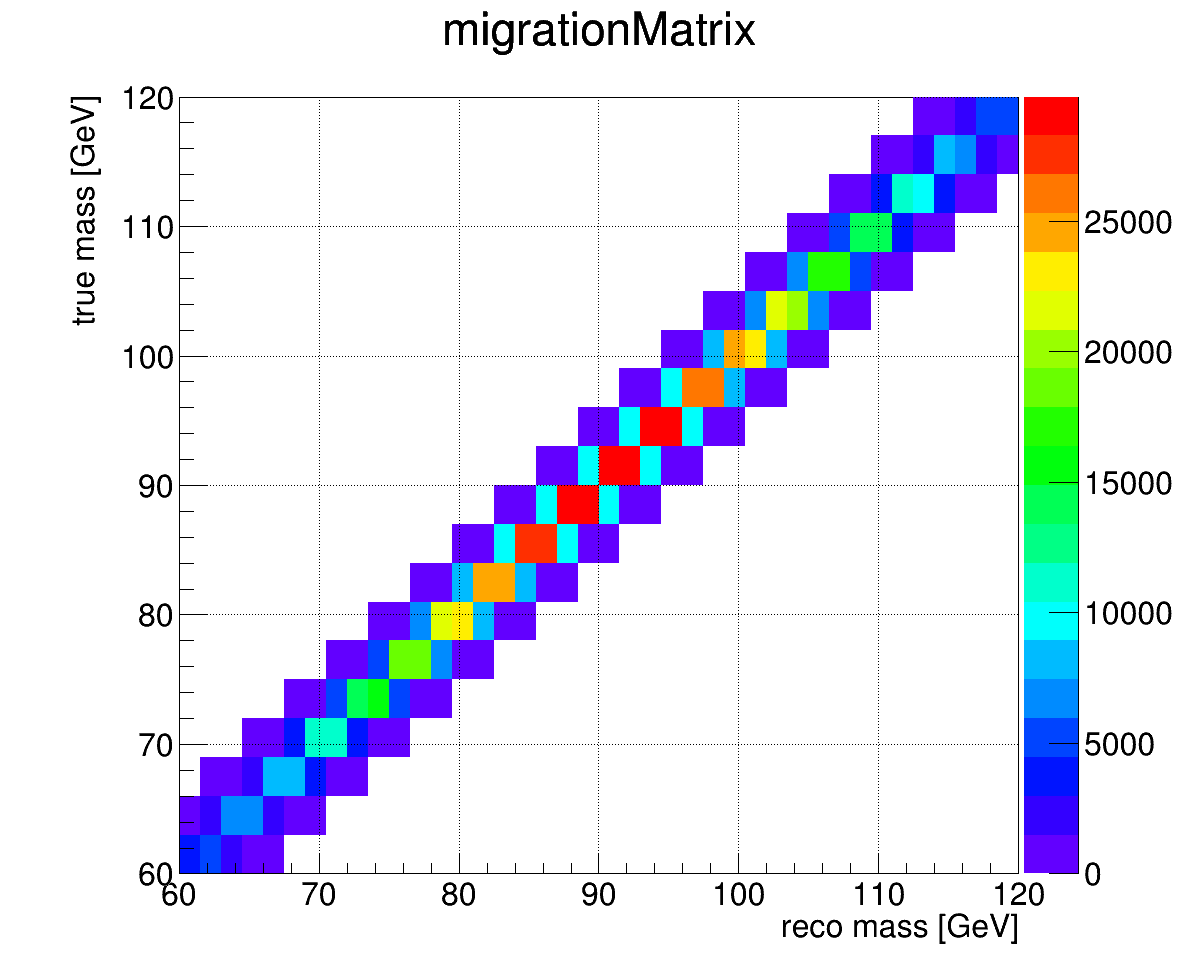
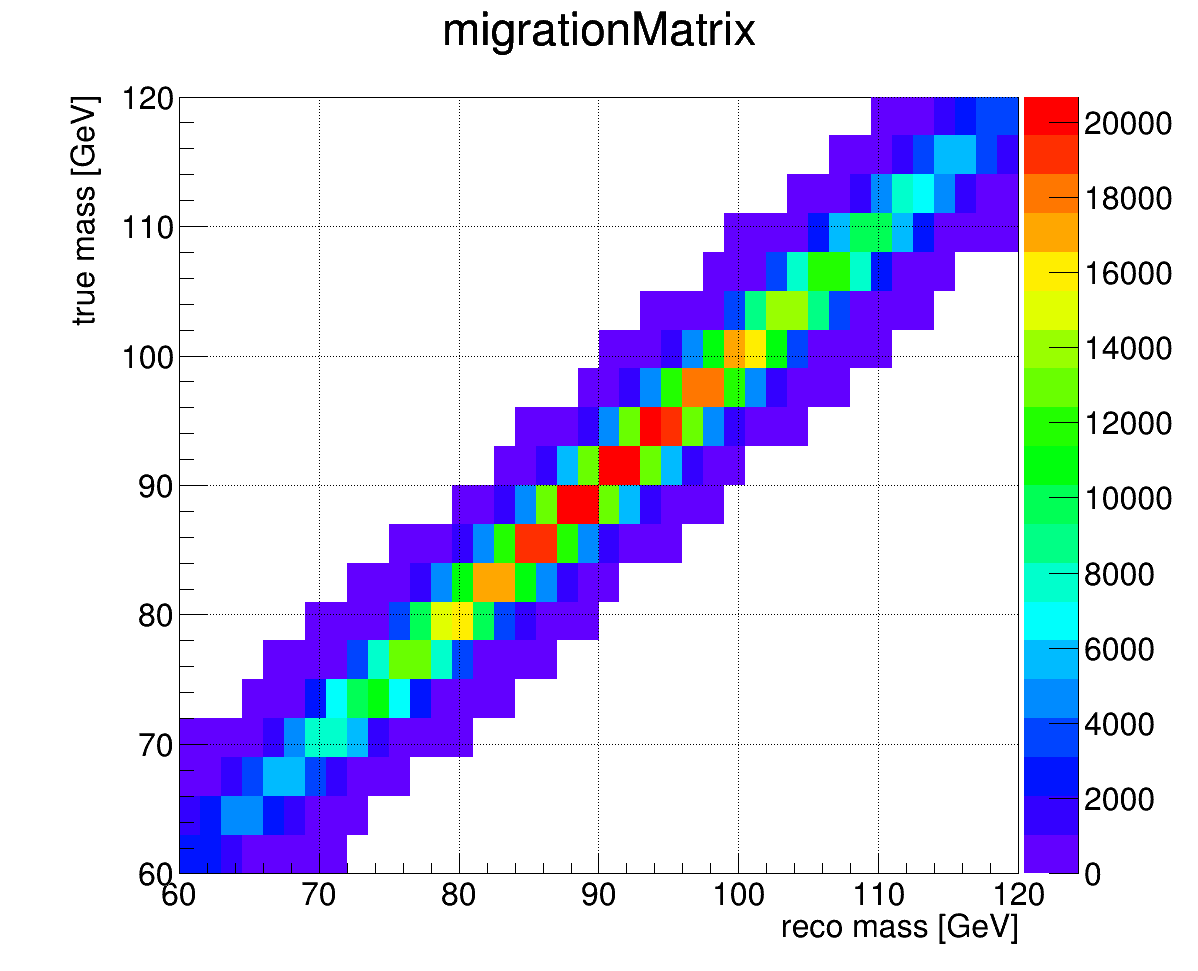
added unfolding script

diff --git a/robert_unfold.C b/robert_unfold.C
@@ -1,5 +1,218 @@
 
+TString file_load_name = "robert_unfolding.root";
+TH1D*_hTrue;
+TH1D*_hReco;
+TH1D*_hBack;
+TH2D*_hMatrix;
+TH1F*_hUnfolded;
+
+void LoadHistograms();
+void TUnfoldUnfolding();
+void PlotUnfoldedResult();
+
 void robert_unfold()
 {
+    LoadHistograms();
+    TUnfoldUnfolding();
+    PlotUnfoldedResult();
+}// end robert_unfold()
 
+void LoadHistograms()
+{
+    TFile*loadFile = new TFile(file_load_name);
+    _hTrue = (TH1D*)loadFile->Get("true");
+    _hReco = (TH1D*)loadFile->Get("reco");
+    _hMatrix = (TH2D*)loadFile->Get("migration_matrix");
+}// end LoadHistograms()
+
+void TUnfoldUnfolding()
+{
+    // There are a variety of options for TUnfold
+    // Regularization Modes and Density Modes are both used in regularization
+    // So they are not being used yet in our analysis sicne we are not using 
+    // regularization
+    // But they may be needed in the future with other variables
+    // The area constraint option is only used if the statistics are not
+    // Gaussian
+    // we can ignore this
+    // outputMap tells TUnfold which axis the true distribution is on
+
+    ////////////////////////////
+    //  Regularization Modes  //
+    ////////////////////////////
+    //TUnfold::ERegMode regMode = TUnfold::kRegModeNone; //breaks 
+    //TUnfold::ERegMode regMode = TUnfold::kRegModeSize;
+    //TUnfold::ERegMode regMode = TUnfold::kRegModeDerivative;
+    TUnfold::ERegMode regMode = TUnfold::kRegModeCurvature;
+    //TUnfold::ERegMode regMode = TUnfold::kRegModeMixed; //breaks
+
+    ///////////////////////
+    //  Area Constraint  //
+    ///////////////////////
+    TUnfold::EConstraint constraintMode = TUnfold::kEConstraintNone;
+    //TUnfold::EConstraint constraintMode = TUnfold::kEConstraintArea;
+
+    /////////////////////
+    //  Density Modes  //
+    /////////////////////
+    //TUnfoldDensity::EDensityMode densityFlags = TUnfoldDensity::kDensityModeNone;
+    TUnfoldDensity::EDensityMode densityFlags = TUnfoldDensity::kDensityModeBinWidth;
+    //TUnfoldDensity::EDensityMode densityFlags = TUnfoldDensity::kDensityModeUser;
+    //TUnfoldDensity::EDensityMode densityFlags = TUnfoldDensity::kDensityModeBinWidthAndUser;
+    /////////////////////////////////////
+    //  Horizontal vs Vertical Output  //
+    /////////////////////////////////////
+    TUnfold::EHistMap outputMap = TUnfold::kHistMapOutputVert;
+
+    //////////////////////////////////////
+    //  Constructor for TUnfoldDensity  //
+    //////////////////////////////////////
+    TUnfoldDensity unfold(_hMatrix,outputMap,regMode,constraintMode,densityFlags);
+    unfold.SetInput(_hReco);//the measured distribution
+    double backScale = 1.0;
+    double backScaleError = 0.0;//scale error for background
+
+    // For now, no background subtraction
+    bool backgroundSubtraction = false;
+    if(backgroundSubtraction) unfold.SubtractBackground(_hBack,"background",backScale,backScaleError);
+
+    ///////////////////////
+    //  Begin Unfolding  //
+    ///////////////////////
+    Int_t iBest;
+    TSpline *logTauX,*logTauY;
+    TGraph *lCurve;
+    TGraph*bestLcurve;
+    TGraph*bestLogTauLogChi2;
+    // No regularization
+    bool regularization = false;
+    if(regularization){
+        Int_t nScan=30;//This number chosen only because it was given in the tutorial
+        Double_t tauMin = 0.0;//If tauMin=tauMax, TUnfold automatically chooses a range
+        Double_t tauMax = 0.0;//Not certain how TUnfold chooses the range
+        iBest=unfold.ScanLcurve(nScan,tauMin,tauMax,&lCurve,&logTauX,&logTauY);
+        cout<< "tau=" << unfold.GetTau() << endl;
+        cout<<"chi**2="<<unfold.GetChi2A()<<"+"<<unfold.GetChi2L()<<" / "<<unfold.GetNdf()<<"\n";
+        Double_t t[1],x[1],y[1];
+        logTauX->GetKnot(iBest,t[0],x[0]);
+        logTauY->GetKnot(iBest,t[0],y[0]);
+        bestLcurve=new TGraph(1,x,y);
+        bestLogTauLogChi2=new TGraph(1,t,x);
+    }// end regularization==true
+    else{
+        // tau set to zero means no regularization
+        // when regularization is used, tau has to be determined
+        double tau = 0;
+        unfold.DoUnfold(tau,_hReco);
+    }// end regularization==false
+
+    //Create unfolded histogram
+    TH1*hUnfolded = unfold.GetOutput("hUnfolded");
+
+    //Create error matrices
+    TH2*_hEmatStat=unfold.GetEmatrixInput("hEmatrixInput");
+    TH2*_hEmatTotal=unfold.GetEmatrixTotal("hEmatrixTotal");
+
+    //Create unfolding histogram with errors
+    TH1F*hUnfoldedE = (TH1F*)hUnfolded->Clone("hUnfoldedTUnfold");
+
+    //loop over unfolded histogram bins and assign errors to each one
+    // these come from the error matrix defined by TUnfold
+    int nBinsTrue = _hTrue->GetNbinsX();
+    for(int i=0;i<=nBinsTrue;i++){
+        double binError = TMath::Sqrt(_hEmatTotal->GetBinContent(i+1,i+1));
+        hUnfoldedE->SetBinError(i+1,binError);
+    }
+
+    _hUnfolded = hUnfoldedE;
+}// end TUnfoldUnfolding()
+
+void PlotUnfoldedResult()
+{
+    int nBinsX = _hTrue->GetNbinsX();
+    double x1 = _hTrue->GetBinLowEdge(1);
+    double x2 = _hTrue->GetBinLowEdge(nBinsX);
+    x2 += _hTrue->GetBinWidth(nBinsX);
+
+    TLine*line = new TLine(x1,1,x2,1);
+    line->SetLineColor(kRed);
+
+    double ratioRange = 0.1;
+    double upperBound = 1.0+ratioRange;
+    double lowerBound = 1.0-ratioRange;
+
+    TH1D*hReco = (TH1D*)_hReco->Clone();
+    hReco->Rebin(2);
+
+    TH1D*hRatioReco = (TH1D*)hReco->Clone("reco ratio");
+    hRatioReco->Divide(_hTrue);
+    hRatioReco->SetMarkerStyle(25);
+    hRatioReco->SetMarkerColor(kBlue);
+    hRatioReco->SetLineColor(kBlue);
+    hRatioReco->SetMinimum(lowerBound);
+    hRatioReco->SetMaximum(upperBound);
+    hRatioReco->SetTitle("");
+    hRatioReco->GetYaxis()->SetLabelSize(0.06);
+    hRatioReco->GetYaxis()->SetTitleSize(0.09);
+    hRatioReco->GetYaxis()->SetTitleOffset(0.3);
+    hRatioReco->GetYaxis()->SetTitle("reco/true");
+    hRatioReco->GetXaxis()->SetLabelSize(0.1);
+    hRatioReco->GetXaxis()->SetTitleSize(0.12);
+    hRatioReco->GetXaxis()->SetTitleOffset(0.8);
+
+    TH1D*hRatioUnfolded = (TH1D*)_hUnfolded->Clone("unfolded ratio");
+    hRatioUnfolded->Divide(_hTrue);
+    hRatioUnfolded->SetMarkerStyle(20);
+    hRatioUnfolded->SetMarkerColor(kBlack);
+    hRatioUnfolded->SetLineColor(kBlack);
+    hRatioUnfolded->SetMinimum(lowerBound);
+    hRatioUnfolded->SetMaximum(upperBound);
+
+    TCanvas*c1 = new TCanvas("c1","",0,0,1200,1000);
+    const float padmargins = 0.02;
+    double ratioSplit = 0.30;
+    TPad*pad1 = new TPad("","",0,ratioSplit,1.0,1.0);
+    pad1->SetBottomMargin(padmargins);
+    pad1->SetGrid();
+    pad1->SetTicks(1,1);
+    pad1->Draw();
+    pad1->cd();
+
+    _hTrue->SetMinimum(1e3);
+    hReco->SetMinimum(1e3);
+    _hTrue->SetFillColor(kRed+2);
+    _hTrue->SetMarkerColor(kRed+2);
+    _hTrue->SetLineColor(kRed+2);
+    _hUnfolded->SetMarkerStyle(20);
+    _hUnfolded->SetMarkerColor(kBlack);
+    _hTrue->GetYaxis()->SetTitle("# of events");
+    _hTrue->GetXaxis()->SetLabelSize(0);
+    _hTrue->SetTitle("");
+    _hTrue->Draw("hist");
+    _hUnfolded->Draw("pe,same");
+    hReco->SetMarkerStyle(25);
+    hReco->SetMarkerColor(kBlue);
+    hReco->Draw("pe,same");
+
+    TLegend*legend = new TLegend(0.7,0.9,0.9,0.7);
+    legend->SetTextSize(0.04);
+    legend->AddEntry(_hTrue,"true");
+    legend->AddEntry(hReco,"reco");
+    legend->AddEntry(_hUnfolded,"unfolded");
+    legend->Draw("same"); 
+
+    c1->cd();
+    TPad*pad2 = new TPad("","",0,0.05,1,ratioSplit);
+    pad2->SetTopMargin(padmargins);
+    pad2->SetBottomMargin(0.3);
+    pad2->SetGrid();
+    pad2->SetTicks(1,1);
+    pad2->Draw();
+    pad2->cd();
+
+    hRatioReco->Draw("pe,same");
+    hRatioUnfolded->Draw("pe,same");
+    line->Draw("same");
+
+    c1->SaveAs("plots/unfolded_closure.png");
 }

diff --git a/createToyModel.C b/createToyModel.C
@@ -136,7 +136,7 @@ void MakeModel(int nEntries)
     // larger widght means greater bin migration
     // I used a smaller width so that the system will be well-behaved
     double smearing_mean = 0;
-    double smearing_std = 1;
+    double smearing_std = 2;
 
     TRandom3 rand;
     for(int iEntry=0;iEntry<nEntries;iEntry++){
@@ -166,9 +166,11 @@ void DefineHistograms()
 
     int nBinsTrue = 20;
     int nBinsReco = 40;
-    _hTrue = new TH1D("true","",nBinsTrue,60,120);
-    _hReco = new TH1D("reco","",nBinsReco,60,120);
-    _hMatrix = new TH2D("migration_matrix","",nBinsReco,60,120,nBinsTrue,60,120);
+    int lowMass = 60;
+    int highMass = 120;
+    _hTrue = new TH1D("true","",nBinsTrue,lowMass,highMass);
+    _hReco = new TH1D("reco","",nBinsReco,lowMass,highMass);
+    _hMatrix = new TH2D("migration_matrix","",nBinsReco,lowMass,highMass,nBinsTrue,lowMass,highMass);
 
     _hTrue->SetMinimum(0);
     _hTrue->SetLineColor(kRed);
